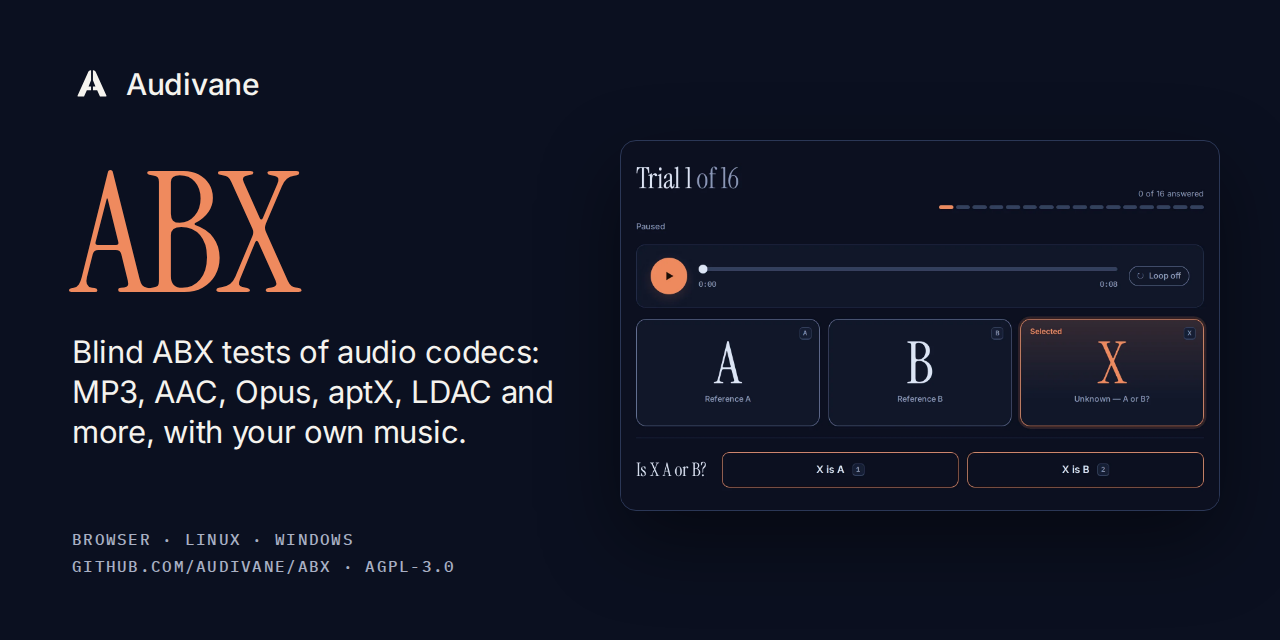
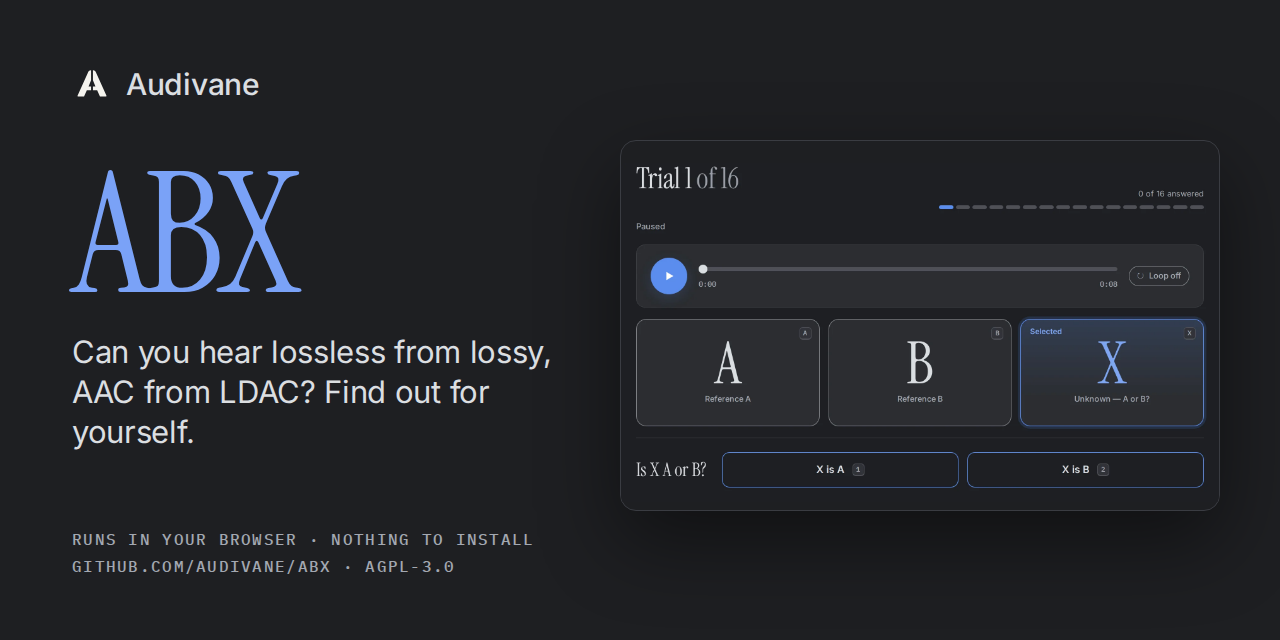
Audivane ABX 1.1.2

diff --git a/tests/e2e/listening-flow.spec.ts b/tests/e2e/listening-flow.spec.ts
@@ -400,11 +400,11 @@ test("fixed and blind perfect-listener runs freeze the plan, stay paused first, 
 
   // --- Plan + bind: default N=8, alpha=.05, blind_random; the single
   // readiness-check switch is explicitly ON for this calibrated run. ---
-  await expect(page.getByLabel("Planned scored trials N (1–1000)")).toHaveValue("8");
+  await expect(page.getByLabel("Planned test trials N (1–1000)")).toHaveValue("8");
   await expect(page.getByLabel("Alpha (strict p < alpha)")).toHaveValue("0.05");
   await expect(page.getByLabel("Label mode", { exact: true })).toHaveValue("blind_random");
   await expect(page.locator("#canary-enabled")).toBeChecked();
-  await page.getByLabel("Planned scored trials N (1–1000)").fill("8");
+  await page.getByLabel("Planned test trials N (1–1000)").fill("8");
   await page.getByLabel("Label mode", { exact: true }).selectOption("fixed");
   await page.getByRole("button", { name: "Prepare test", exact: true }).click();
   await expect(page.locator(".listening-trial")).toBeVisible({
@@ -521,7 +521,7 @@ test("fixed and blind perfect-listener runs freeze the plan, stay paused first, 
   await showView(page, "Listen");
   await clickRunAction(page, NEW_TEST);
   await showView(page, "Setup");
-  await page.getByLabel("Planned scored trials N (1–1000)").fill("1");
+  await page.getByLabel("Planned test trials N (1–1000)").fill("1");
   await page.getByLabel("Label mode", { exact: true }).selectOption("blind_random");
   await page.getByRole("button", { name: "Prepare test", exact: true }).click();
   await waitForReadyTrial(page);
@@ -539,7 +539,7 @@ test("fixed and blind perfect-listener runs freeze the plan, stay paused first, 
   // --- Seal a partially answered run: auditable, terminal, never a final result. ---
   await clickRunAction(page, NEW_TEST);
   await showView(page, "Setup");
-  await page.getByLabel("Planned scored trials N (1–1000)").fill("2");
+  await page.getByLabel("Planned test trials N (1–1000)").fill("2");
   await page.getByRole("button", { name: "Prepare test", exact: true }).click();
   await waitForReadyTrial(page);
   await waitForReadyTrial(page);
@@ -565,7 +565,7 @@ test("fixed and blind perfect-listener runs freeze the plan, stay paused first, 
   // --- Reset + fail calibration -> terminal void, then release to new source. ---
   await clickRunAction(page, NEW_TEST);
   await showView(page, "Setup");
-  await page.getByLabel("Planned scored trials N (1–1000)").fill("1");
+  await page.getByLabel("Planned test trials N (1–1000)").fill("1");
   await page.getByRole("button", { name: "Prepare test", exact: true }).click();
   await waitForReadyTrial(page);
   await waitForReadyTrial(page);
@@ -636,7 +636,7 @@ test("an unusable canary blocks calibration, explicit disable works, load failur
     canary: true,
   });
 
-  await page.getByLabel("Planned scored trials N (1–1000)").fill("4");
+  await page.getByLabel("Planned test trials N (1–1000)").fill("4");
   // Test-only fault at the real measurement-worker boundary: the requested
   // canary report is retained but explicitly unusable. The primary action must
   // fail closed rather than silently turning calibration off.

diff --git a/apps/client/src/styles.css b/apps/client/src/styles.css
@@ -3,7 +3,7 @@
  * Skins share the DSP app's background, panel, line, text and status values
  * (dsp/app/src/styles/tokens.css): Light, Graphite and Midnight. System
  * resolves to Light or Midnight (workspace/ThemeSwitcher.tsx). The accent is
- * copper. Text-safe variants (--subtle, --accent-text, --ok-text, --warn-text,
+ * DSP blue. Text-safe variants (--subtle, --accent-text, --ok-text, --warn-text,
  * --bad-text) and --control borders exist because some shared values are below
  * WCAG AA as small text or as a control boundary; see apps/client/DESIGN.md.
  */
@@ -72,19 +72,19 @@
   --bad-soft: rgba(209, 52, 56, 0.12);
   --shadow: 0 10px 30px rgba(40, 30, 15, 0.1);
 
-  /* Copper accent. */
-  --accent: #a9472a;
+  /* DSP blue accent. */
+  --accent: #2563eb;
   --accent-fg: #ffffff;
-  --accent-soft: rgba(169, 71, 42, 0.1);
+  --accent-soft: rgba(37, 99, 235, 0.12);
 
   /* AA-safe text and control variants. */
   --subtle: #5f5a50;
-  --accent-text: #93391f;
+  --accent-text: #1d4ed8;
   --ok-text: #0e6c42;
   --warn-text: #85560f;
   --bad-text: #b4262b;
   --control: #8c8475;
-  --focus: #93391f;
+  --focus: #1d4ed8;
 
   --radius: 14px;
   --radius-sm: 9px;
@@ -110,17 +110,17 @@
   --bad-soft: rgba(242, 85, 90, 0.15);
   --shadow: 0 14px 40px rgba(0, 0, 0, 0.5);
 
-  --accent: #e3875c;
-  --accent-fg: #1e1208;
-  --accent-soft: rgba(227, 135, 92, 0.16);
+  --accent: #5b8def;
+  --accent-fg: #ffffff;
+  --accent-soft: rgba(91, 141, 239, 0.17);
 
   --subtle: #9a9fa8;
-  --accent-text: #e3875c;
+  --accent-text: #7fa6f2;
   --ok-text: #43c47f;
   --warn-text: #efb34f;
   --bad-text: #ff8a8d;
   --control: #7f838c;
-  --focus: #e3875c;
+  --focus: #7fa6f2;
 }
 
 :root[data-theme="midnight"] {
@@ -142,17 +142,17 @@
   --bad-soft: rgba(255, 92, 98, 0.14);
   --shadow: 0 14px 40px rgba(0, 0, 0, 0.45);
 
-  --accent: #ef8a5e;
-  --accent-fg: #1a0e07;
-  --accent-soft: rgba(239, 138, 94, 0.16);
+  --accent: #4d8dff;
+  --accent-fg: #ffffff;
+  --accent-soft: rgba(77, 141, 255, 0.16);
 
   --subtle: #8b98b8;
-  --accent-text: #ef8a5e;
+  --accent-text: #6b9fff;
   --ok-text: #3ccf8e;
   --warn-text: #f0b24a;
   --bad-text: #ff7378;
   --control: #66749a;
-  --focus: #ef8a5e;
+  --focus: #6b9fff;
 }
 
 /* Base */

diff --git a/apps/client/src/App.tsx b/apps/client/src/App.tsx
@@ -129,7 +129,7 @@ const DEFAULT_STAGES_A: readonly CodecSelection[] = Object.freeze([
   Object.freeze({ codecId: "noop_passthrough" as const, bitrateKbps: 0 }),
 ]);
 const DEFAULT_STAGES_B: readonly CodecSelection[] = Object.freeze([
-  Object.freeze({ codecId: "opus" as const, bitrateKbps: 128 }),
+  Object.freeze({ codecId: "aac" as const, bitrateKbps: 128 }),
 ]);
 const DEFAULT_PLAN_FIELDS: PlanFormFields = Object.freeze({
   plannedTrials: String(LISTENING_DEFAULTS.plannedTrials),
@@ -1240,8 +1240,8 @@ function RuntimeApp({
             : null;
 
   const limitLine = caps
-    ? `Up to ${Math.floor(caps.maxDurationSeconds / 60)} min · ${Math.round(caps.maxInputBytes / (1024 * 1024))} MiB · 32-bit input`
-    : "Up to 30 min · 512 MiB · 32-bit input";
+    ? `Up to ${Math.floor(caps.maxDurationSeconds / 60)} min · ${Math.round(caps.maxInputBytes / (1024 * 1024))} MiB · 32-bit file`
+    : "Up to 30 min · 512 MiB · 32-bit file";
   const advancedSummary = [
     rateMode === "native" ? "Native source rate" : "48 kHz delivery",
     preparationMode === "aligned-gain-matched-v1"
@@ -1262,7 +1262,7 @@ function RuntimeApp({
             <p className="about-lede">
               Audivane ABX compares two codec chains from one local audio file
               in a blind A/B/X test. Preparation and playback run in this
-              browser with local WASM codecs. Audio is never uploaded.
+              browser with local WASM codecs. Audio is never uploaded to any server.
             </p>
             <dl className="facts">
               <dt>Runtime</dt>

diff --git a/apps/client/src/setup/PlanCard.tsx b/apps/client/src/setup/PlanCard.tsx
@@ -70,13 +70,11 @@ export function PlanCard(props: {
     <section className="card plan-card" aria-labelledby="plan-heading">
       <div className="card-head">
         <h2 id="plan-heading">Test plan</h2>
-        <span className="card-meta">
-          {props.locked ? "Locked" : "Locks when trial 1 is staged"}
-        </span>
+        {props.locked && <span className="card-meta">Locked</span>}
       </div>
       <dl className="plan-lines">
         <div>
-          <dt>Scored trials</dt>
+          <dt>Test trials</dt>
           <dd className="num">{props.fields.plannedTrials}</dd>
         </div>
         <div>
@@ -113,12 +111,12 @@ export function PlanCard(props: {
           </dd>
         </div>
       </dl>
-      <details className="listening-test-plan">
+      <details className="listening-test-plan" open>
         <summary>Edit plan</summary>
         <div className="plan-fields">
           <div className="field">
             <label htmlFor="plan-trials">
-              Planned scored trials N (1–1000)
+              Planned test trials N (1–1000)
             </label>
             <input
               id="plan-trials"

diff --git a/tests/e2e/listen-keyboard.spec.ts b/tests/e2e/listen-keyboard.spec.ts
@@ -20,7 +20,7 @@ async function startTest(page: Page, trials: number): Promise<void> {
   await chooseWav(page, `keyboard-${trials}.wav`, makePcm16Wav({ sampleRate: 48_000, channels: 1, seconds: 0.8 }));
   await configure(page, { a: "noop_passthrough", b: "opus", bitrateB: 64 });
   await page.locator(".listening-test-plan > summary").click();
-  await page.getByLabel("Planned scored trials N (1–1000)").fill(String(trials));
+  await page.getByLabel("Planned test trials N (1–1000)").fill(String(trials));
   await page.getByRole("button", { name: "Prepare test", exact: true }).click();
   await expect(page.locator(".listening-trial")).toBeVisible({ timeout: 180_000 });
   await expect(page.getByRole("button", { name: "Play", exact: true })).toBeEnabled({ timeout: 60_000 });

diff --git a/tests/e2e/output-devices.spec.ts b/tests/e2e/output-devices.spec.ts
@@ -154,7 +154,7 @@ test("listening UI refreshes real output support, locks changes after staging, a
     .toHaveCount(chooserExposed ? 1 : 0);
 
   await page.locator("#canary-enabled").uncheck();
-  await page.getByLabel("Planned scored trials N (1–1000)").fill("1");
+  await page.getByLabel("Planned test trials N (1–1000)").fill("1");
   await page.getByRole("button", { name: "Prepare test", exact: true }).click();
   await expect(page.getByRole("button", { name: "Play", exact: true }))
     .toBeEnabled({ timeout: 180_000 });

diff --git a/tests/e2e/listening-fast-start.spec.ts b/tests/e2e/listening-fast-start.spec.ts
@@ -321,7 +321,7 @@ test("before a test is prepared Listen is locked, source and codec edits keep Se
   };
   const before = await documentTop();
   await page.locator(".listening-test-plan > summary").click();
-  await page.getByLabel("Planned scored trials N (1–1000)").fill("9");
+  await page.getByLabel("Planned test trials N (1–1000)").fill("9");
   await page.locator(".listening-test-plan > summary").click();
   expect(Math.abs(await documentTop() - before)).toBeLessThanOrEqual(2);
 

diff --git a/apps/client/src/setup/SourceCard.tsx b/apps/client/src/setup/SourceCard.tsx
@@ -162,7 +162,7 @@ export function SourceCard(props: {
             </span>
             <b>Drop an audio file here</b>
             <span>
-              or <u>choose a file</u> from this device. It is never uploaded.
+              or <u>choose a file</u> from this device.
             </span>
           </label>
         </>

diff --git a/apps/client/DESIGN.md b/apps/client/DESIGN.md
@@ -3,7 +3,7 @@
 ## Design contract
 
 Guided mode. The approved reference is the November 2026 redesign mockup
-(copper accent). The interface is a three-step flow — Setup, Listen, Results —
+(DSP blue accent). The interface is a three-step flow — Setup, Listen, Results —
 in one centred column. It is a presentation layer only: do not change the test
 method, scoring, gating, preparation, evidence or export contracts to simplify
 the UI.
@@ -34,13 +34,13 @@ values, not by importing across repositories.
 Light is warm paper, shared with the website and DSP: `--bg #f5f3ee`,
 `--panel #fffdf9`, `--panel-2 #f0ece4`, warm greys for lines and text.
 
-The accent is copper:
+The accent is DSP's blue, copied from the DSP skins:
 
 | Skin | `--accent` | `--accent-fg` |
 | --- | --- | --- |
-| Light | `#a9472a` | `#ffffff` |
-| Graphite | `#e3875c` | `#1e1208` |
-| Midnight | `#ef8a5e` | `#1a0e07` |
+| Light | `#2563eb` | `#ffffff` |
+| Graphite | `#5b8def` | `#ffffff` |
+| Midnight | `#4d8dff` | `#ffffff` |
 
 Contrast (WCAG 2.2 AA). Some shared values fail as small text or as a
 control boundary, so the client adds AA-safe roles and uses them for text and
@@ -48,8 +48,9 @@ controls:
 
 - `--subtle` replaces `--faint` for any text (Light `--faint` is 3.2–3.7:1).
   `--faint` is decoration only.
-- `--accent-text` for accent-coloured small text (Light `#93391f`, 6.6:1 on
-  `--bg`).
+- `--accent-text` for accent-coloured small text (Light `#1d4ed8`, 6.0:1 on
+  `--bg`; Graphite `#7fa6f2`; Midnight `#6b9fff`; all ≥4.5:1 on every
+  surface).
 - `--ok-text`, `--warn-text`, `--bad-text` for status words (Light
   `#0e6c42`, `#85560f`, `#b4262b`; Graphite bad `#ff8a8d`; Midnight bad
   `#ff7378`), all ≥4.5:1 on panels and on their soft tints.

diff --git a/assets/brand/README.md b/assets/brand/README.md
@@ -36,7 +36,7 @@ Colors are the shared Audivane surfaces: navy `#0b1020` and paper `#f5f3ee`
 (the Midnight background and the Light background of the apps and website).
 On paper the symbol is navy; on navy it is paper. App icons and favicons are a
 navy tile (edge `#2b3756`) with the paper symbol, so they read on light and
-dark backgrounds alike. Product accents (DSP blue, ABX copper) stay inside the
+dark backgrounds alike. The product accent (blue, shared by DSP and ABX) stays inside the
 apps and are not used in the logo. Audivane DSP's app icon uses its own wave
 glyph in the same tile style (`dsp/assets/brand/audivane-dsp-icon.svg`).
 The wordmark is outlined from the project's IBM Plex Sans Medium font. Its

diff --git a/DESIGN.md b/DESIGN.md
@@ -11,7 +11,7 @@ configuring A/B and listening the primary path.
   About and diagnostics dialog. Keep actionable errors, ambiguity and session
   locks visible.
 - Offer persisted System, Light, Graphite and Midnight themes sharing the DSP
-  app's colours, with a copper accent. Use self-hosted Inter, Instrument Serif
+  app's colours and its blue accent. Use self-hosted Inter, Instrument Serif
   (display) and IBM Plex Mono (numbers).
 - Don't show greyed-out controls that cannot apply; hide them or explain why.
 - Preserve accessible names, contrast, focus indicators, keyboard use and

diff --git a/CHANGELOG.md b/CHANGELOG.md
@@ -1,5 +1,15 @@
 # Changelog
 
+## 1.1.2 (2026-11-22)
+
+DSP's blue in place of the copper accent, and clearer setup.
+
+- Every theme uses DSP's blue accent.
+- Setup: the plan card says "Test trials" and opens with the plan editor
+  expanded; side B starts as AAC 128 kbps; the source card reads "32-bit
+  file".
+- About: audio is never uploaded to any server.
+
 ## 1.1.1 (2026-11-22)
 
 Less helper text in the app.
